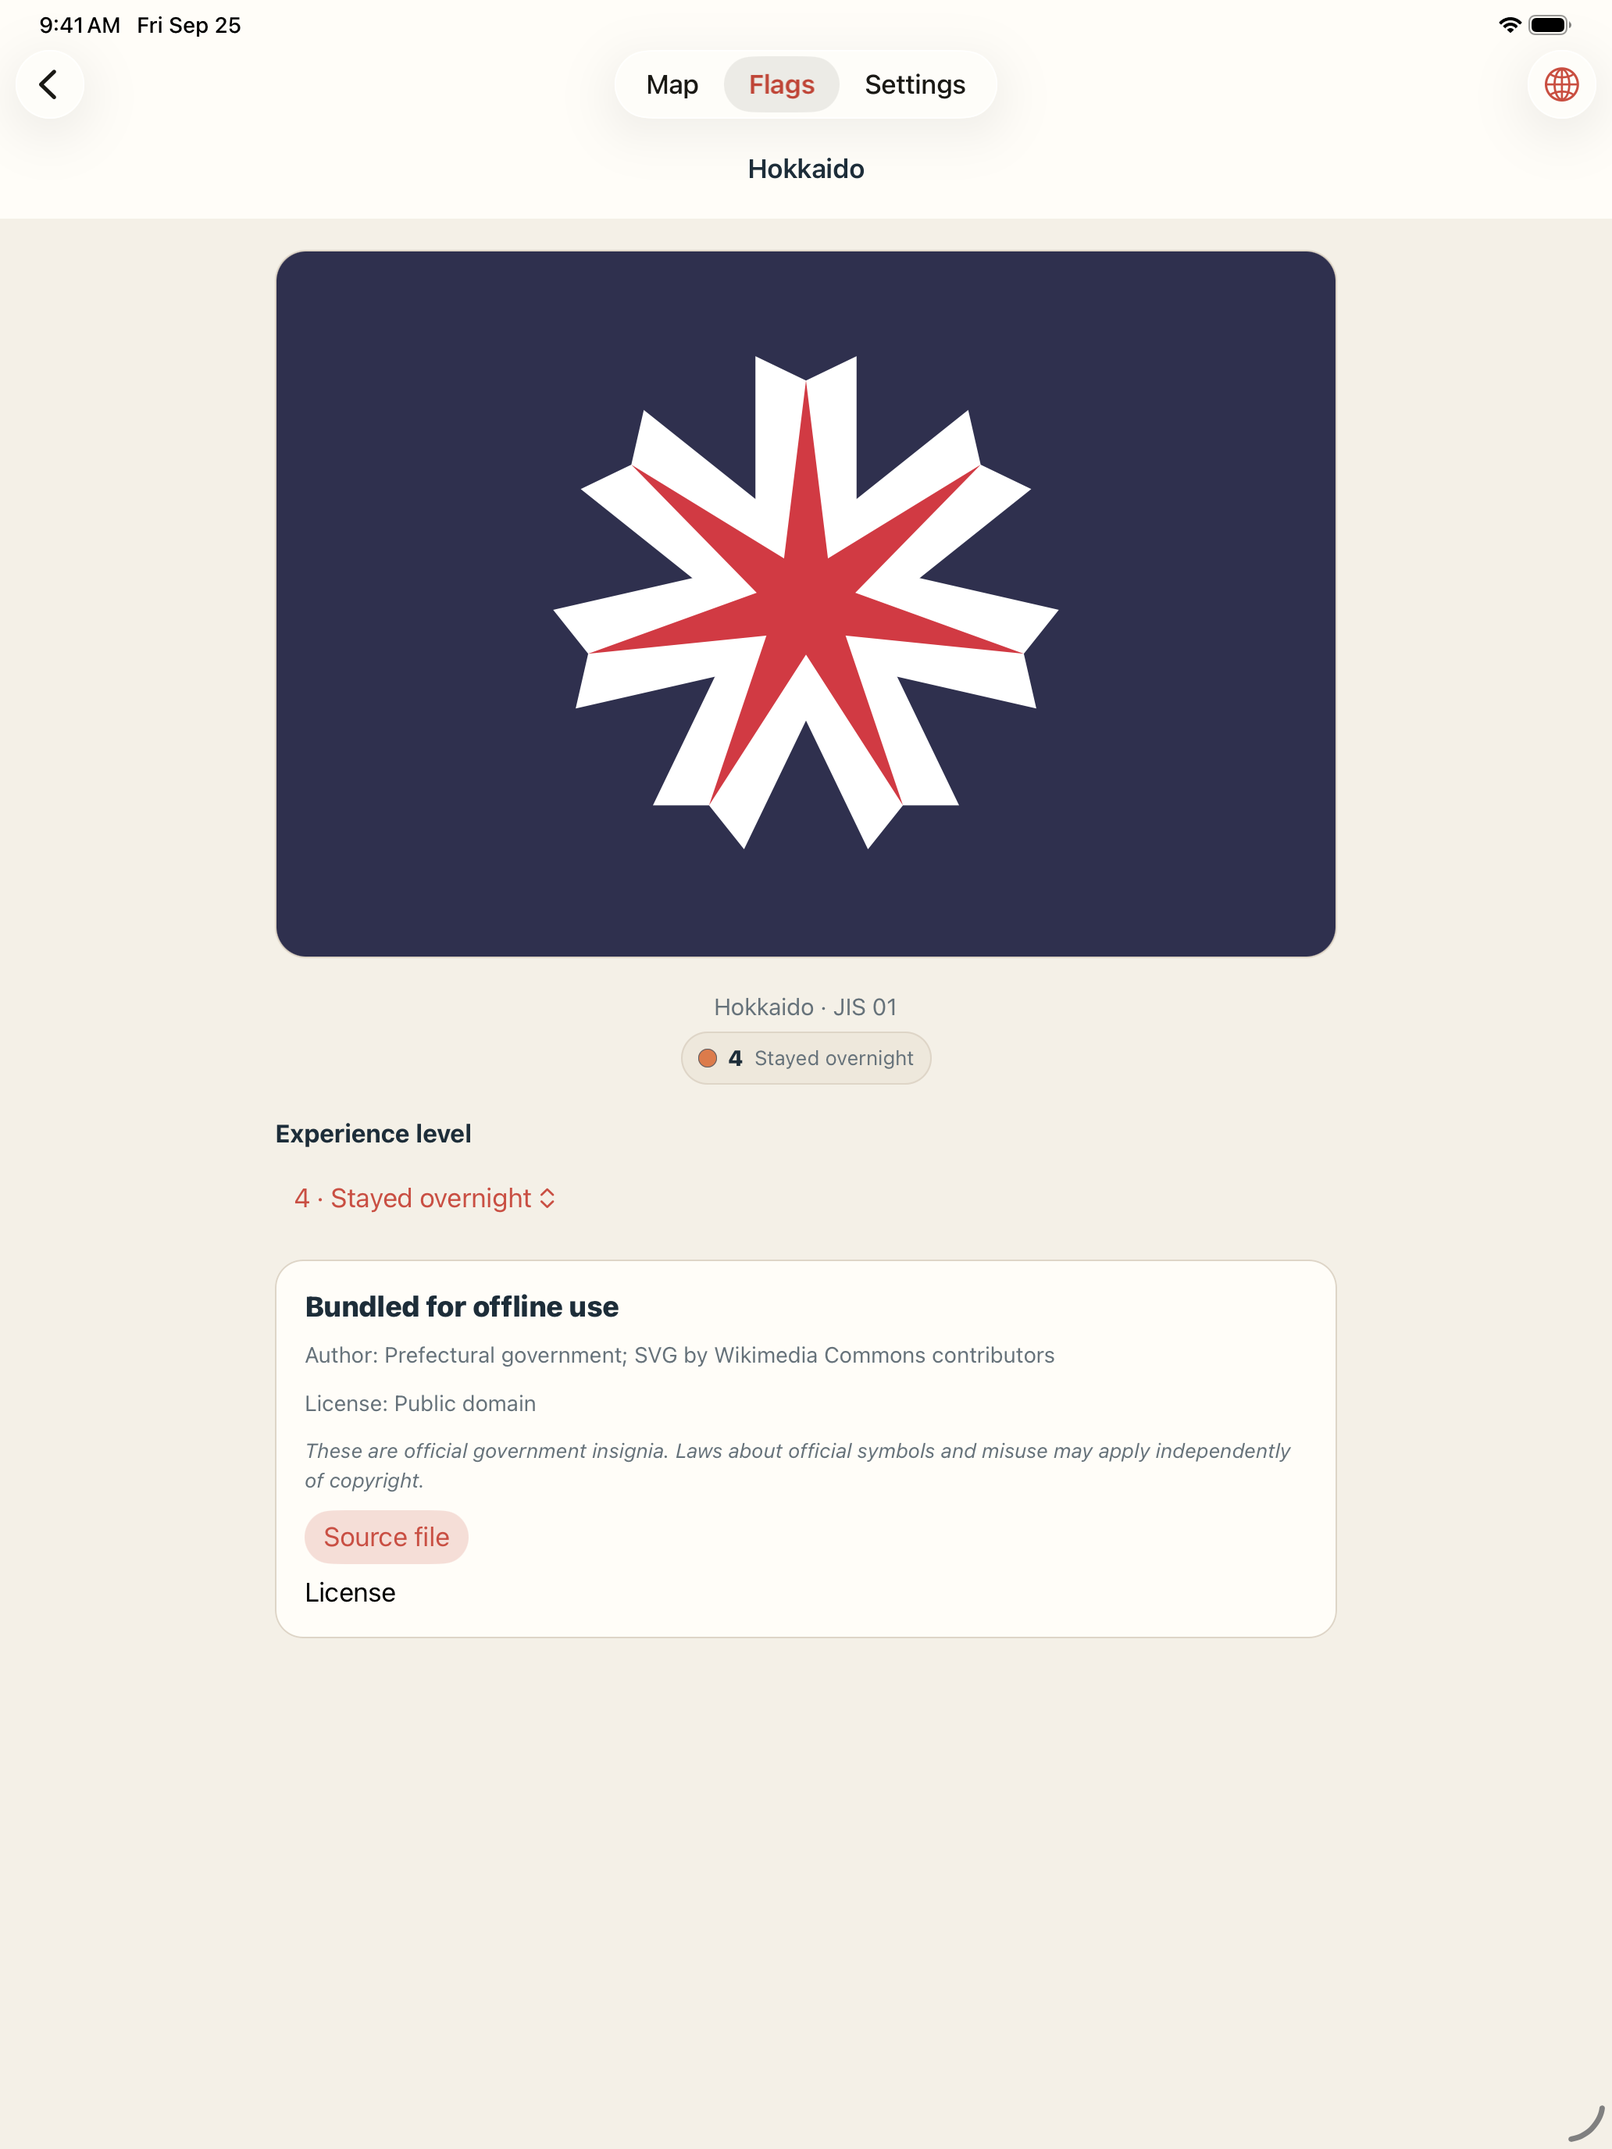
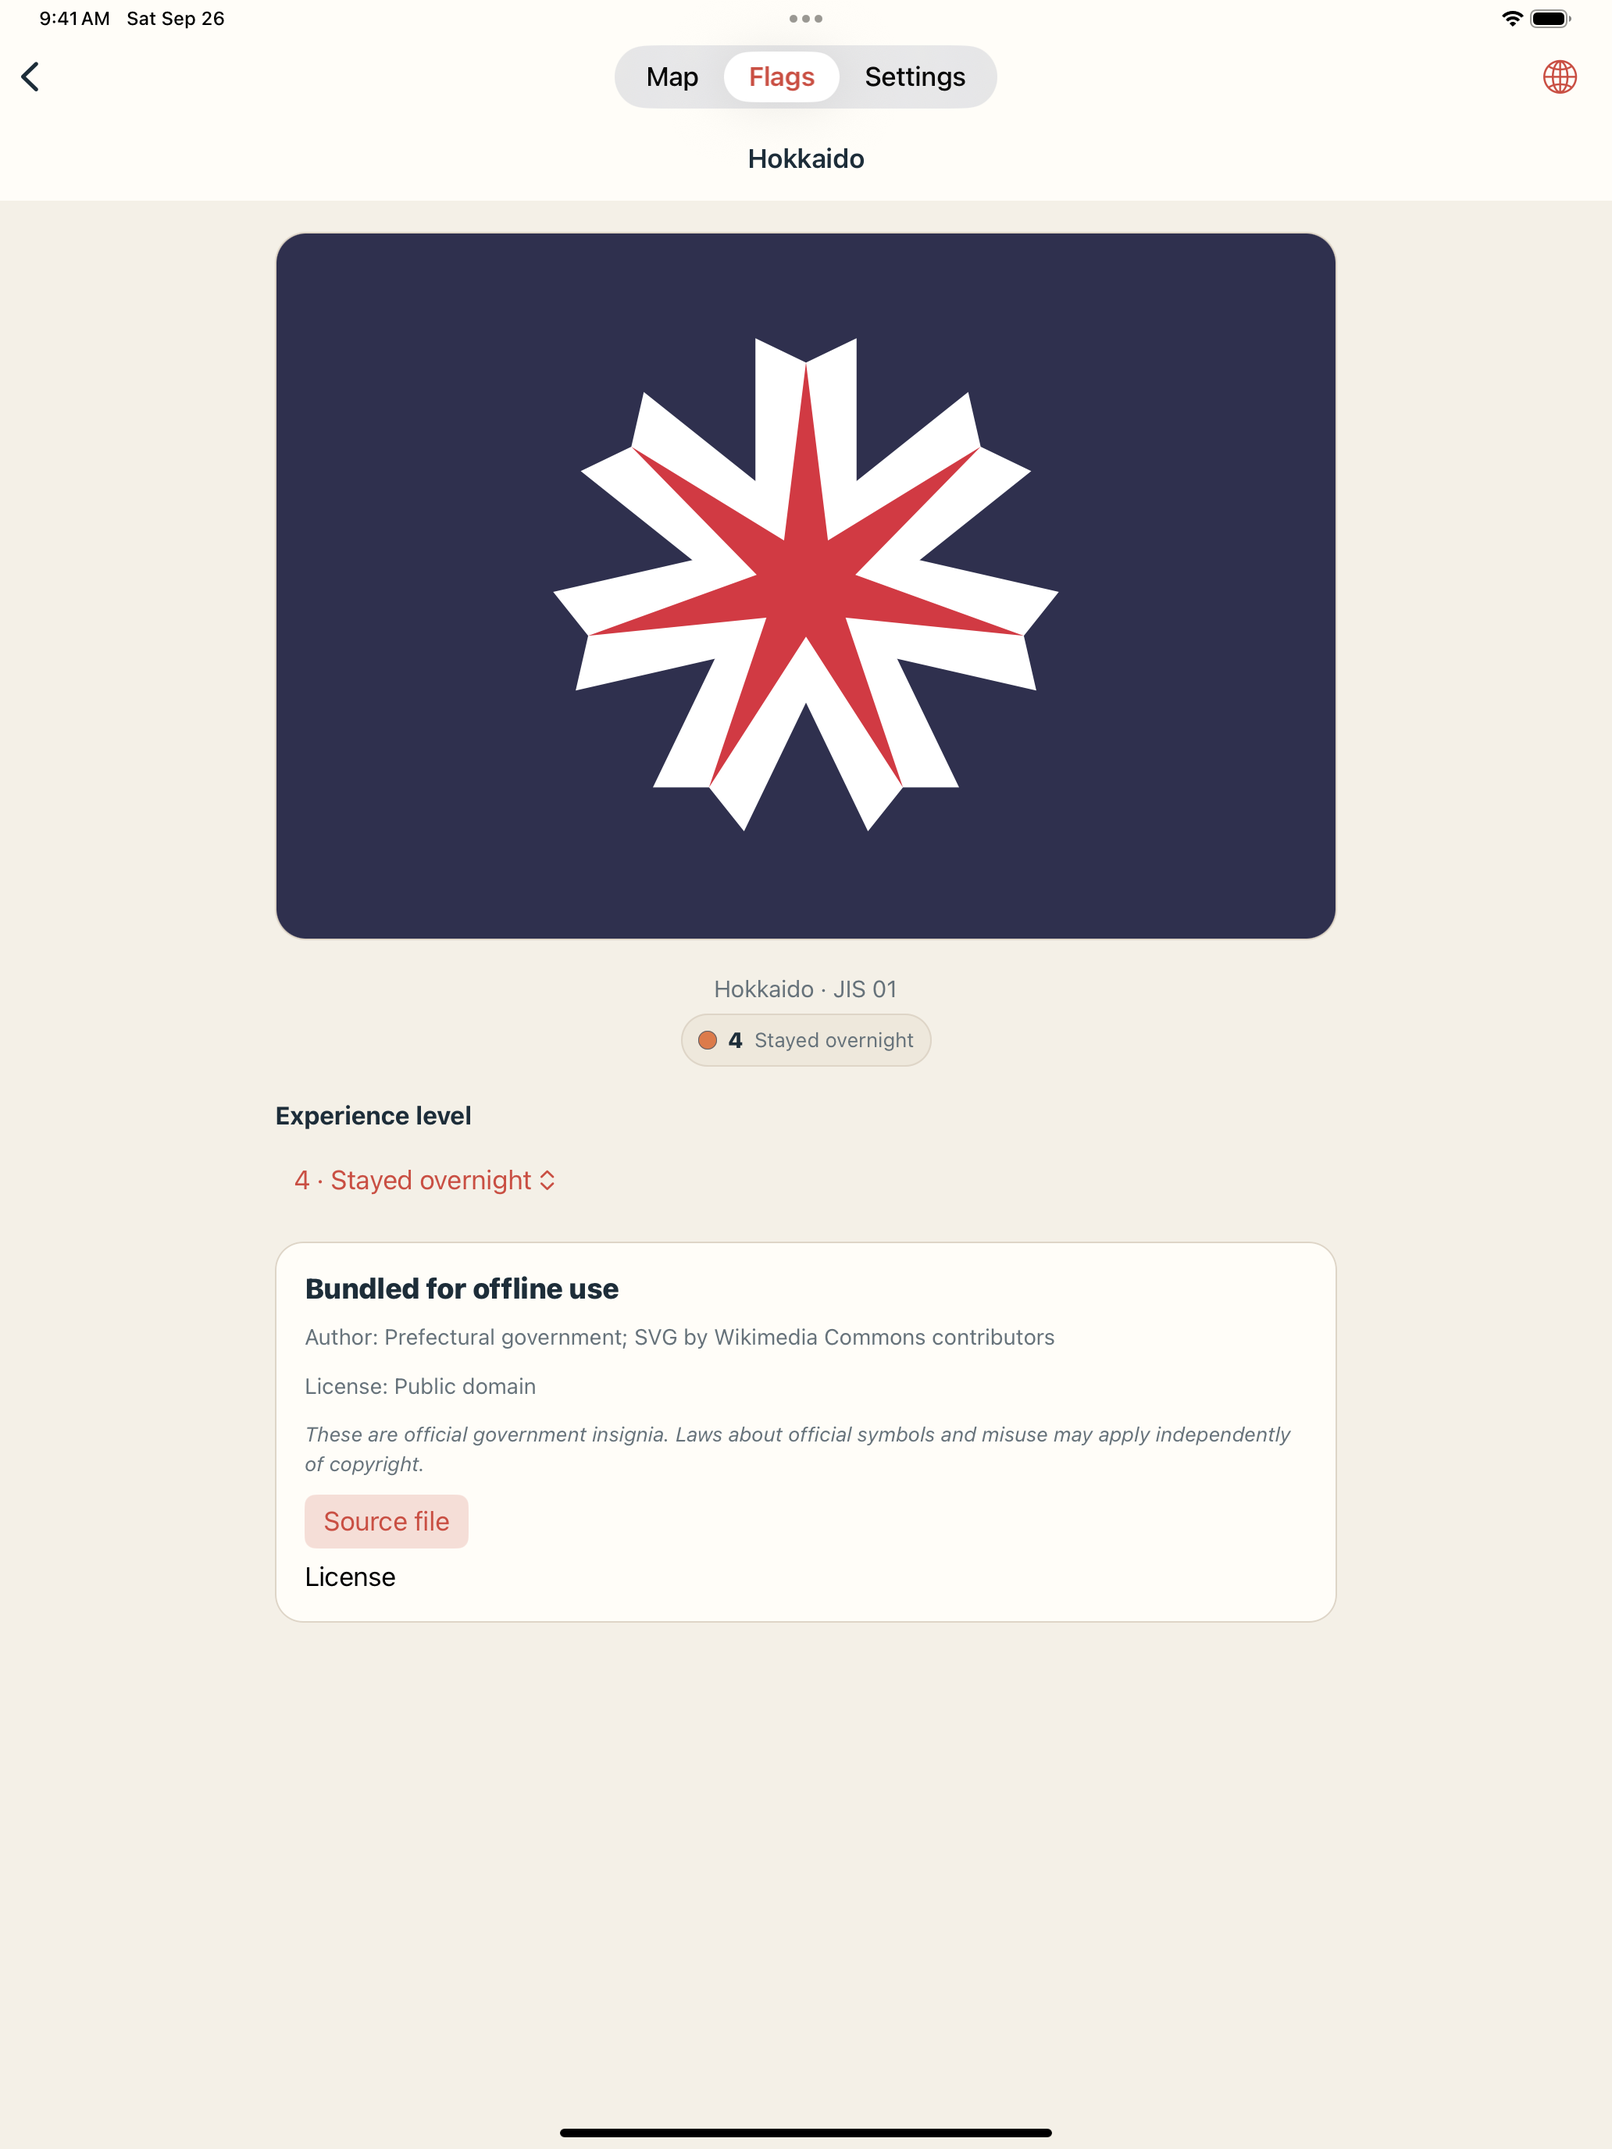
Fix iPad Flags width before store builds

diff --git a/src/screens/flags-screen.tsx b/src/screens/flags-screen.tsx
@@ -227,7 +227,8 @@ function FlagCardSeparator() {
 }
 
 const styles = StyleSheet.create({
-  screen: { flex: 1 },
+  // @ref LLP 0000#prefecture-data-map-and-flags
+  screen: { flex: 1, width: '100%' },
   content: {
     alignSelf: 'center',
     paddingHorizontal: 18,

diff --git a/store/release-readiness.md b/store/release-readiness.md
@@ -47,20 +47,22 @@ Last checked: 2026-09-26. This records current artifact evidence and earlier val
 - A 2× Android text check on the build-8-derived APK found the Settings display-name placeholder clipped after wrapping. Map, Flags, and the valid import confirmation sheet showed their key controls without clipping. The placeholder was shortened in all three locales and its explanation moved to a wrapping hint below the field. `bun run verify`, `bun run export:web`, and a local offline Android Release build passed after this change. That rebuilt APK was visually checked on the isolated Pixel 9 Pro emulator: Settings rendered without clipped name copy at 1× English and at 2× English, Japanese, and Traditional Chinese. A long entered name remained usable by horizontal scrolling. This local APK is debug-signed with version code 1, so new production EAS builds are required; Android build 8 and iOS preview build 2 predate the fix.
 - A clean unsigned iOS Release build of the Settings fix succeeded for arm64 simulator and launched on an isolated iPhone 17 Pro Max running iOS 26.5. At `accessibility-extra-large`, Settings' shortened `Optional name` placeholder fit inside the field, and its explanatory hint wrapped fully below it after scrolling. The Language and Help & support controls remained reachable. This simulator run does not verify the signed App Store archive or VoiceOver on a device.
 - The local Android Release APK containing the Settings fix launched on a Pixel 9 Pro emulator and opened Android's share sheet for a flag-hidden result image. Its preview showed the score, legend, and complete map. The generated PNG remains in the app's private cache, so this check did not independently measure its pixel dimensions; exact-size verification remains part of the signed-build smoke test.
+- An iPadOS 18.5 Release simulator check found the Flags screen constrained to roughly half the tablet viewport: its second gallery column and filter controls were clipped. The Flags root now fills the native `FlatList` width. An unsigned iOS Release rebuild succeeded, and its Flags, Map, prefecture detail, and Settings screens were visually checked on a 13-inch iPad Pro. Flags also retained its full-width two-column layout on iPadOS 26.5 and its single-column layout on an iPhone 17 Pro Max running iOS 26.5. `bun run verify` and `bun run export:web` passed after the fix. A new Android Release build was attempted, but this shell has no configured Android SDK; the last successful Android local build predates the Flags width change.
+- The App Store draft set now includes current Settings copy on iPhone and four iPadOS 18 simulator captures after the Flags layout fix. The eight images are at Apple's accepted portrait pixel sizes and have no alpha channel. The iPad simulator supplied fully opaque RGBA captures, whose unused alpha channel was removed with RGB pixels unchanged. Apple's [Xcode capture guidance](https://developer.apple.com/documentation/xcode/capturing-screenshots-and-videos-from-devices) permits simulator screenshots; compare these drafts with the final signed app and recapture any mismatch before upload.
 - The iOS preview IPA contains an embedded `main.jsbundle`, version `1.0.0` build 2, bundle ID `dev.expo.kudo.japanex`, and the `applinks:japanex.expo.app` entitlement. Its Info.plist has no development Bonjour or local-network usage keys, and the archive listing has no ExpoDevLauncher or ExpoDevMenu artifacts. These checks do not replace TestFlight launch and inspection of the production archive.
 - Web smoke test: a prefecture level changed the score, survived reload, and appeared in Flags and prefecture detail.
 
 ## Still required before submission
 
 - Use the [signed build handoff](build-handoff.md) to record the exact build IDs, artifact versions, and final smoke-test results.
-- Build new Android and iOS `production` artifacts from the reviewed fix commit. Android build 8 and iOS preview build 2 predate the Settings fix; the iOS preview is also an AdHoc IPA and cannot be submitted as the App Store archive. Reinspect the new Android AAB manifest and signing, and the new iOS archive entitlements, privacy report, embedded manifests, and absence of a development menu. Install through Play internal testing and TestFlight to check delivered behavior and signing.
+- Build new Android and iOS `production` artifacts from the reviewed fix commit. Android build 8 and iOS preview build 2 predate the Settings and iPad Flags fixes; the iOS preview is also an AdHoc IPA and cannot be submitted as the App Store archive. Reinspect the new Android AAB manifest and signing, and the new iOS archive entitlements, privacy report, embedded manifests, and absence of a development menu. Install through Play internal testing and TestFlight to check delivered behavior and signing.
 - Verify offline launch on native devices or simulators and screen-reader navigation at large text sizes on physical devices. [Apple's accessibility test guidance](https://developer.apple.com/documentation/accessibility/performing-accessibility-testing-for-your-app) says VoiceOver is unavailable in Simulator. In Maestro, tapping a map SVG element by its accessibility label found the element but did not open the sheet; a physical tap on the visible shape did. The bundled `react-native-svg` iOS group hit test checks path bounds and delegates to child paths, so a coordinate tap at the accessibility element's center may miss an irregular region. A physical-device VoiceOver activation check is still needed; the Maestro result alone does not establish a screen-reader defect. Repeat view-only and confirmed-import links on the signed Android build and verify signed HTTPS links on both platforms.
 - Repeat PNG export with flags on and off from a Play internal-track install, including exact dimensions, artwork bounds, and share-sheet cancellation. Recheck the fixed Settings field at 2× text on the new signed build.
 - Complete an internal Google Play test and review its pre-launch report. The inspected build-8 AAB requested no unused overlay, photo, video, or storage permission; verify the replacement AAB retains that permission set.
 - Recapture `03-flags.png` and `04-settings.png` for the phone, plus all four screenshots in each tablet Play set, from the final release build. The existing images are drafts; the tablet sets also need native 9:16 captures.
 - Verify delivery to `support@dozastudio.dev`, complete Play Console declarations, and verify app-link opening with the Play App Signing certificate. The updated public support/privacy pages and association files are live.
 - Deploy the new web export so its Settings display-name copy matches the revised native app. Recheck the public web Settings page after deployment.
-- Review the new `store/app-store/` listing draft and capture final iPhone and iPad screenshots from the production build.
+- Review the `store/app-store/` listing draft and compare its simulator screenshots with the production build; recapture any screen whose signed UI differs.
 - Confirm the signed production iOS build has no Expo development menu. A development-menu overlay appeared during repeated custom-scheme automation on the local simulator build; the current profile and native compile gates indicate it should be inactive in a production build, but the signed archive and TestFlight launch remain the deciding evidence.
 
 ## UI and functionality assessment

diff --git a/store/app-store/README.md b/store/app-store/README.md
@@ -34,9 +34,9 @@ Use the [App Store privacy review draft](privacy-review.md) to check source-base
 
 ## Screenshots
 
-The app supports iPhone and iPad. Capture current UI from the final build, without fabricated progress or altered controls. Apple currently requires screenshots for a 6.9-inch iPhone display and a 13-inch iPad display when the app runs on both. Use accepted portrait sizes such as **1320 × 2868** for iPhone 17 Pro Max and **2064 × 2752** for a 13-inch iPad Pro. Apple accepts 1–10 PNG or JPEG screenshots per set and disallows alpha. Check the latest [screenshot specifications](https://developer.apple.com/help/app-store-connect/reference/app-information/screenshot-specifications) before upload.
+The app supports iPhone and iPad. Capture current UI without fabricated progress or altered controls. Apple currently requires screenshots for a 6.9-inch iPhone display and a 13-inch iPad display when the app runs on both. Use accepted portrait sizes such as **1320 × 2868** for iPhone 17 Pro Max and **2064 × 2752** for a 13-inch iPad Pro. Apple accepts 1–10 PNG or JPEG screenshots per set and disallows alpha. Simulator captures are permitted; compare them with the final signed build before upload and recapture if its UI differs. See Apple's [screenshot specifications](https://developer.apple.com/help/app-store-connect/reference/app-information/screenshot-specifications) and [Xcode capture guidance](https://developer.apple.com/documentation/xcode/capturing-screenshots-and-videos-from-devices).
 
-The [simulator draft set](screenshots/draft-simulator/) provides four English screenshots per device for layout and copy review. Capture the upload set from the final signed build after its smoke test.
+The [simulator draft set](screenshots/draft-simulator/) provides four English screenshots per device for layout and copy review. Check this set against the final signed build after its smoke test.
 
 Suggested sequence for each size: map with representative levels, prefecture experience picker, searchable Flags view, Settings with language and sharing controls. Capture at least the primary English set; add localized screenshots if the publisher wants the Japanese and Traditional Chinese listings to show matching UI text.
 

diff --git a/store/app-store/screenshots/README.md b/store/app-store/screenshots/README.md
@@ -1,8 +1,8 @@
 # App Store screenshots
 
-Capture these from the final signed build after the UI and export smoke test. Keep the unedited source captures here until the publisher has reviewed them.
+Review screenshots against the final signed build after the UI and export smoke test. Apple permits screenshots captured from Simulator for App Store submission; recapture any screen whose final signed UI differs. Keep captures free of fabricated progress, private data, and altered controls. See [Apple's Xcode capture guidance](https://developer.apple.com/documentation/xcode/capturing-screenshots-and-videos-from-devices).
 
-`draft-simulator/` contains an eight-image review set captured on 2026-09-25 from the local iOS Release simulator app. It covers the Map, Hokkaido detail, Flags, and Settings on an iPhone 17 Pro Max and a 13-inch iPad. The app's import flow set five prefectures to representative levels for a score of 14; the display name was left empty. The captures have a 9:41 status bar, native pixel dimensions, and no alpha channel. These are layout and listing-copy drafts; recapture the upload set from the final signed build and check it against that build before submission.
+`draft-simulator/` contains an eight-image English review set captured from local iOS Release simulator builds on 2026-09-25 and 2026-09-26. It covers Map, Hokkaido detail, Flags, and Settings on an iPhone 17 Pro Max and a 13-inch iPad Pro. The app's import flow set five prefectures to representative levels for a score of 14; the display name was left empty. The updated iPad set was captured on iPadOS 18 after the Flags width fix, and the iPhone Settings image shows the shorter display-name copy. The captures have a 9:41 status bar and native pixel dimensions. Each file is an opaque PNG; the iPad simulator's fully opaque alpha channel was removed without changing visible pixels. These remain review drafts until compared with the final signed app.
 
 | Directory | Device class | Suggested portrait pixel size |
 | --- | --- | --- |

diff --git a/llp/0000-japanex.explainer.md b/llp/0000-japanex.explainer.md
@@ -54,6 +54,8 @@
 
 [observed] The map UI is split across `japan-map.tsx`, map region/flag components, camera/layout utilities, and screen-level interaction state. Pure map camera and annotation behavior has dependency-free Node coverage (`src/components/japan-map.tsx`, `src/components/map-*`, `src/utils/map-*`, and matching tests).
 
+[observed] The Flags screen sets its root width explicitly to fill the native `FlatList` viewport. With flex alone, an iPadOS 18 Release simulator rendered the two-column gallery and filters in a clipped half-width area; the explicit width restored the full two-column layout on iPadOS 18 and also rendered correctly on iPadOS 26 and iPhone (`src/screens/flags-screen.tsx` and `store/release-readiness.md`).
+
 ### Adaptive accessibility layout
 
 [observed] At accessibility text scales around 1.8 or greater, the map score card, map zoom controls, Settings summary, and Flags filter controls stack vertically so their labels and values do not overlap. The shared threshold is 1.75 to account for platform font-scale rounding. The Settings name field grows to fit scaled text. Level indicators can wrap their text, while decorative numeric seals cap their font growth to fit inside the circle. The surrounding screens remain scrollable (`src/constants/accessibility-layout.ts`, `src/components/tracker-snapshot.tsx`, `src/components/japan-map.tsx`, `src/components/level-indicator.tsx`, `src/screens/flags-screen.tsx`, and `src/screens/settings-screen.tsx`).
